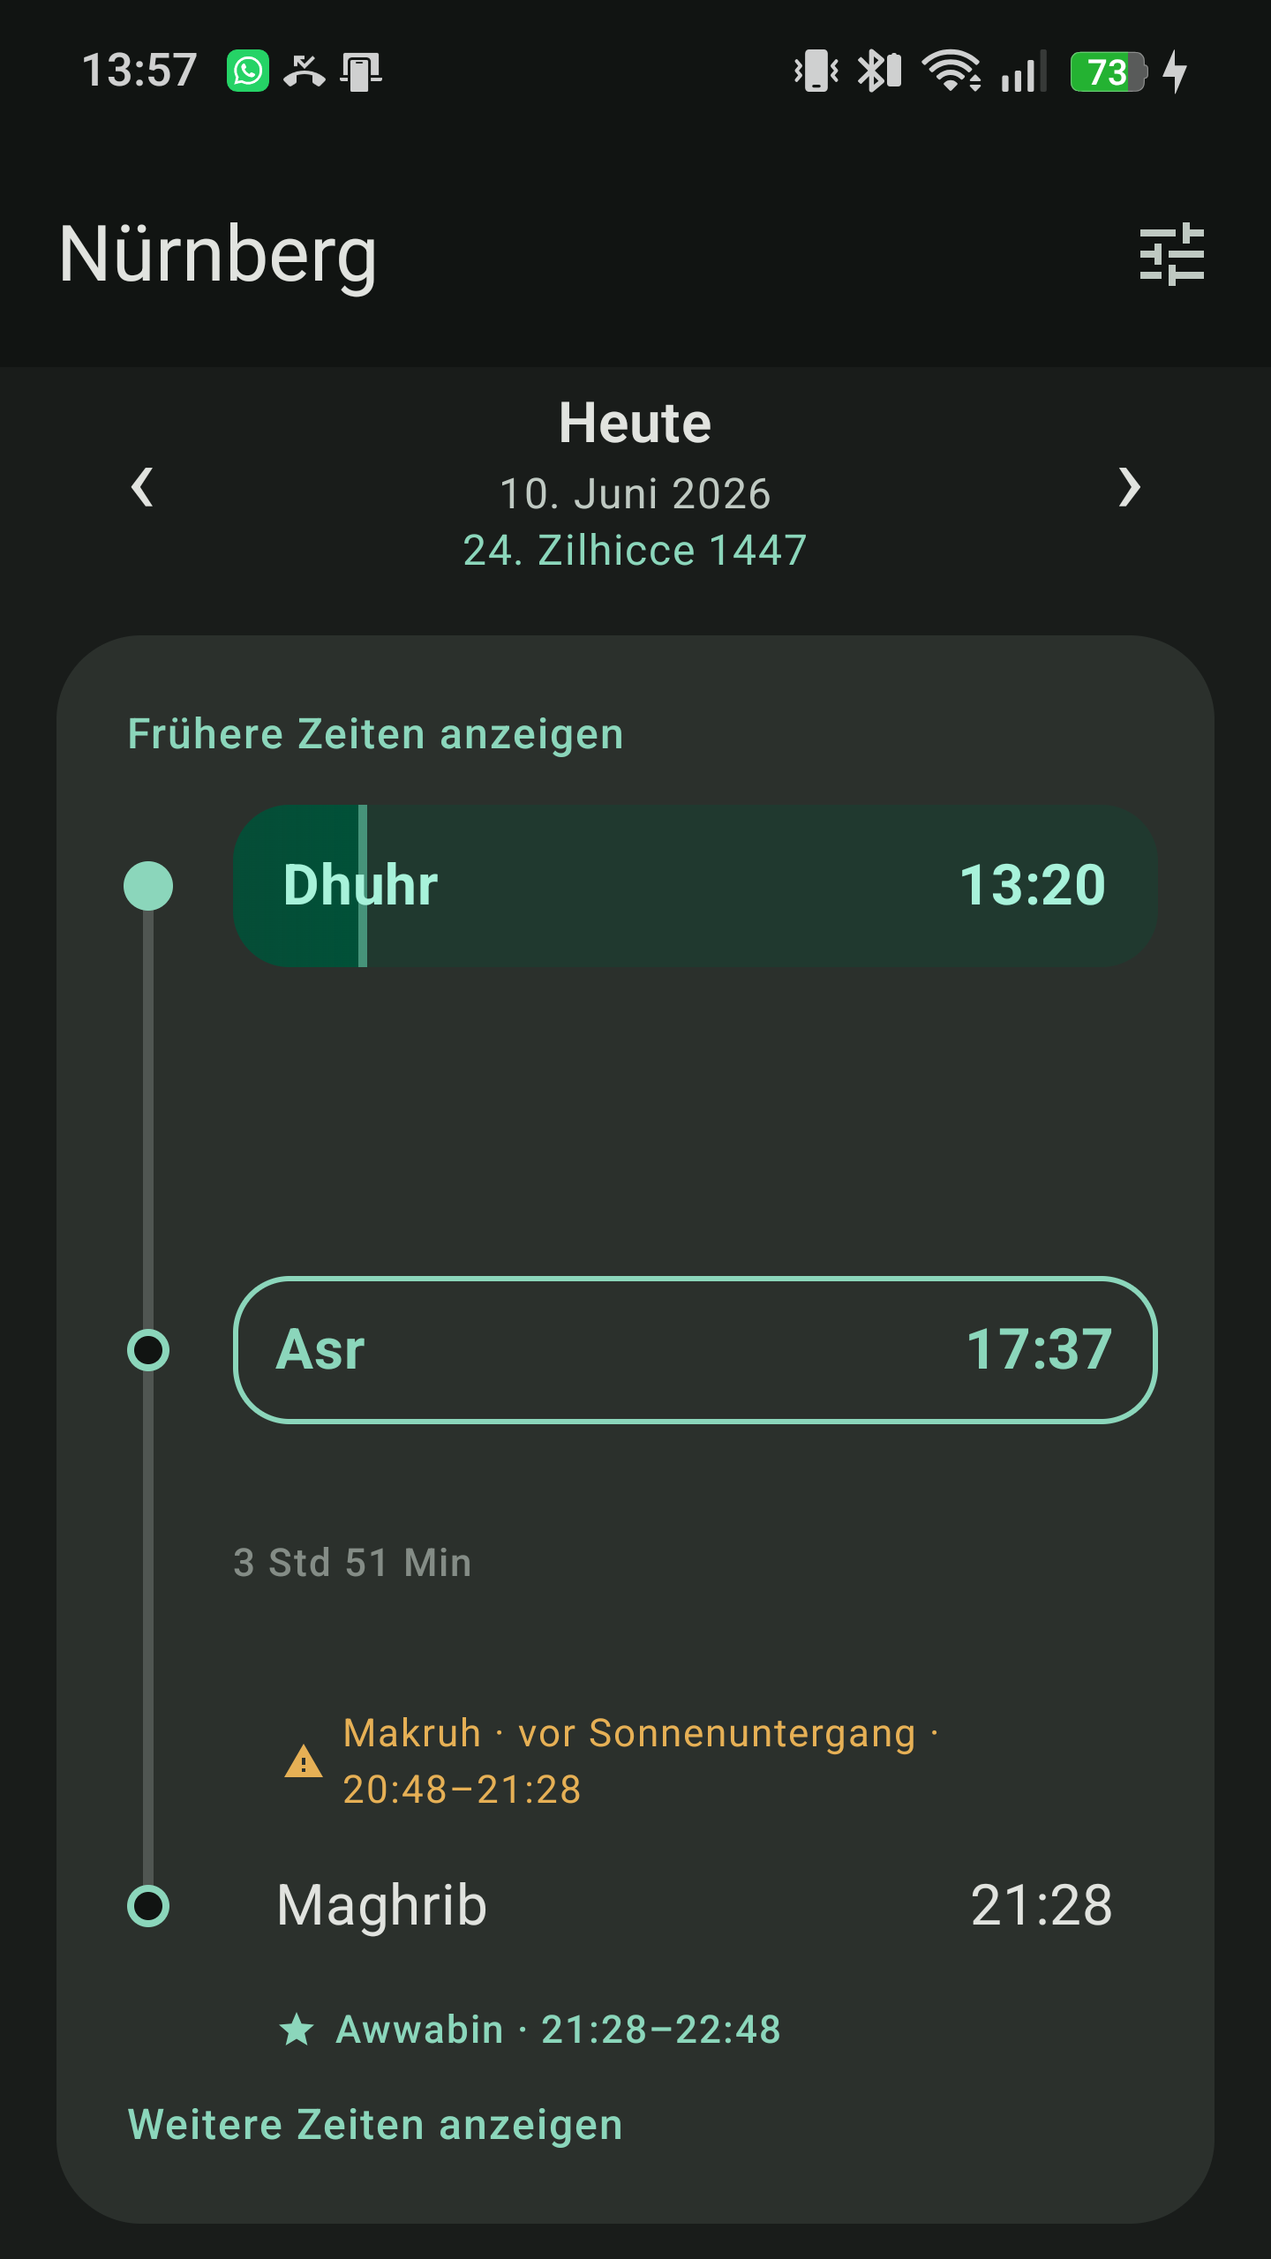
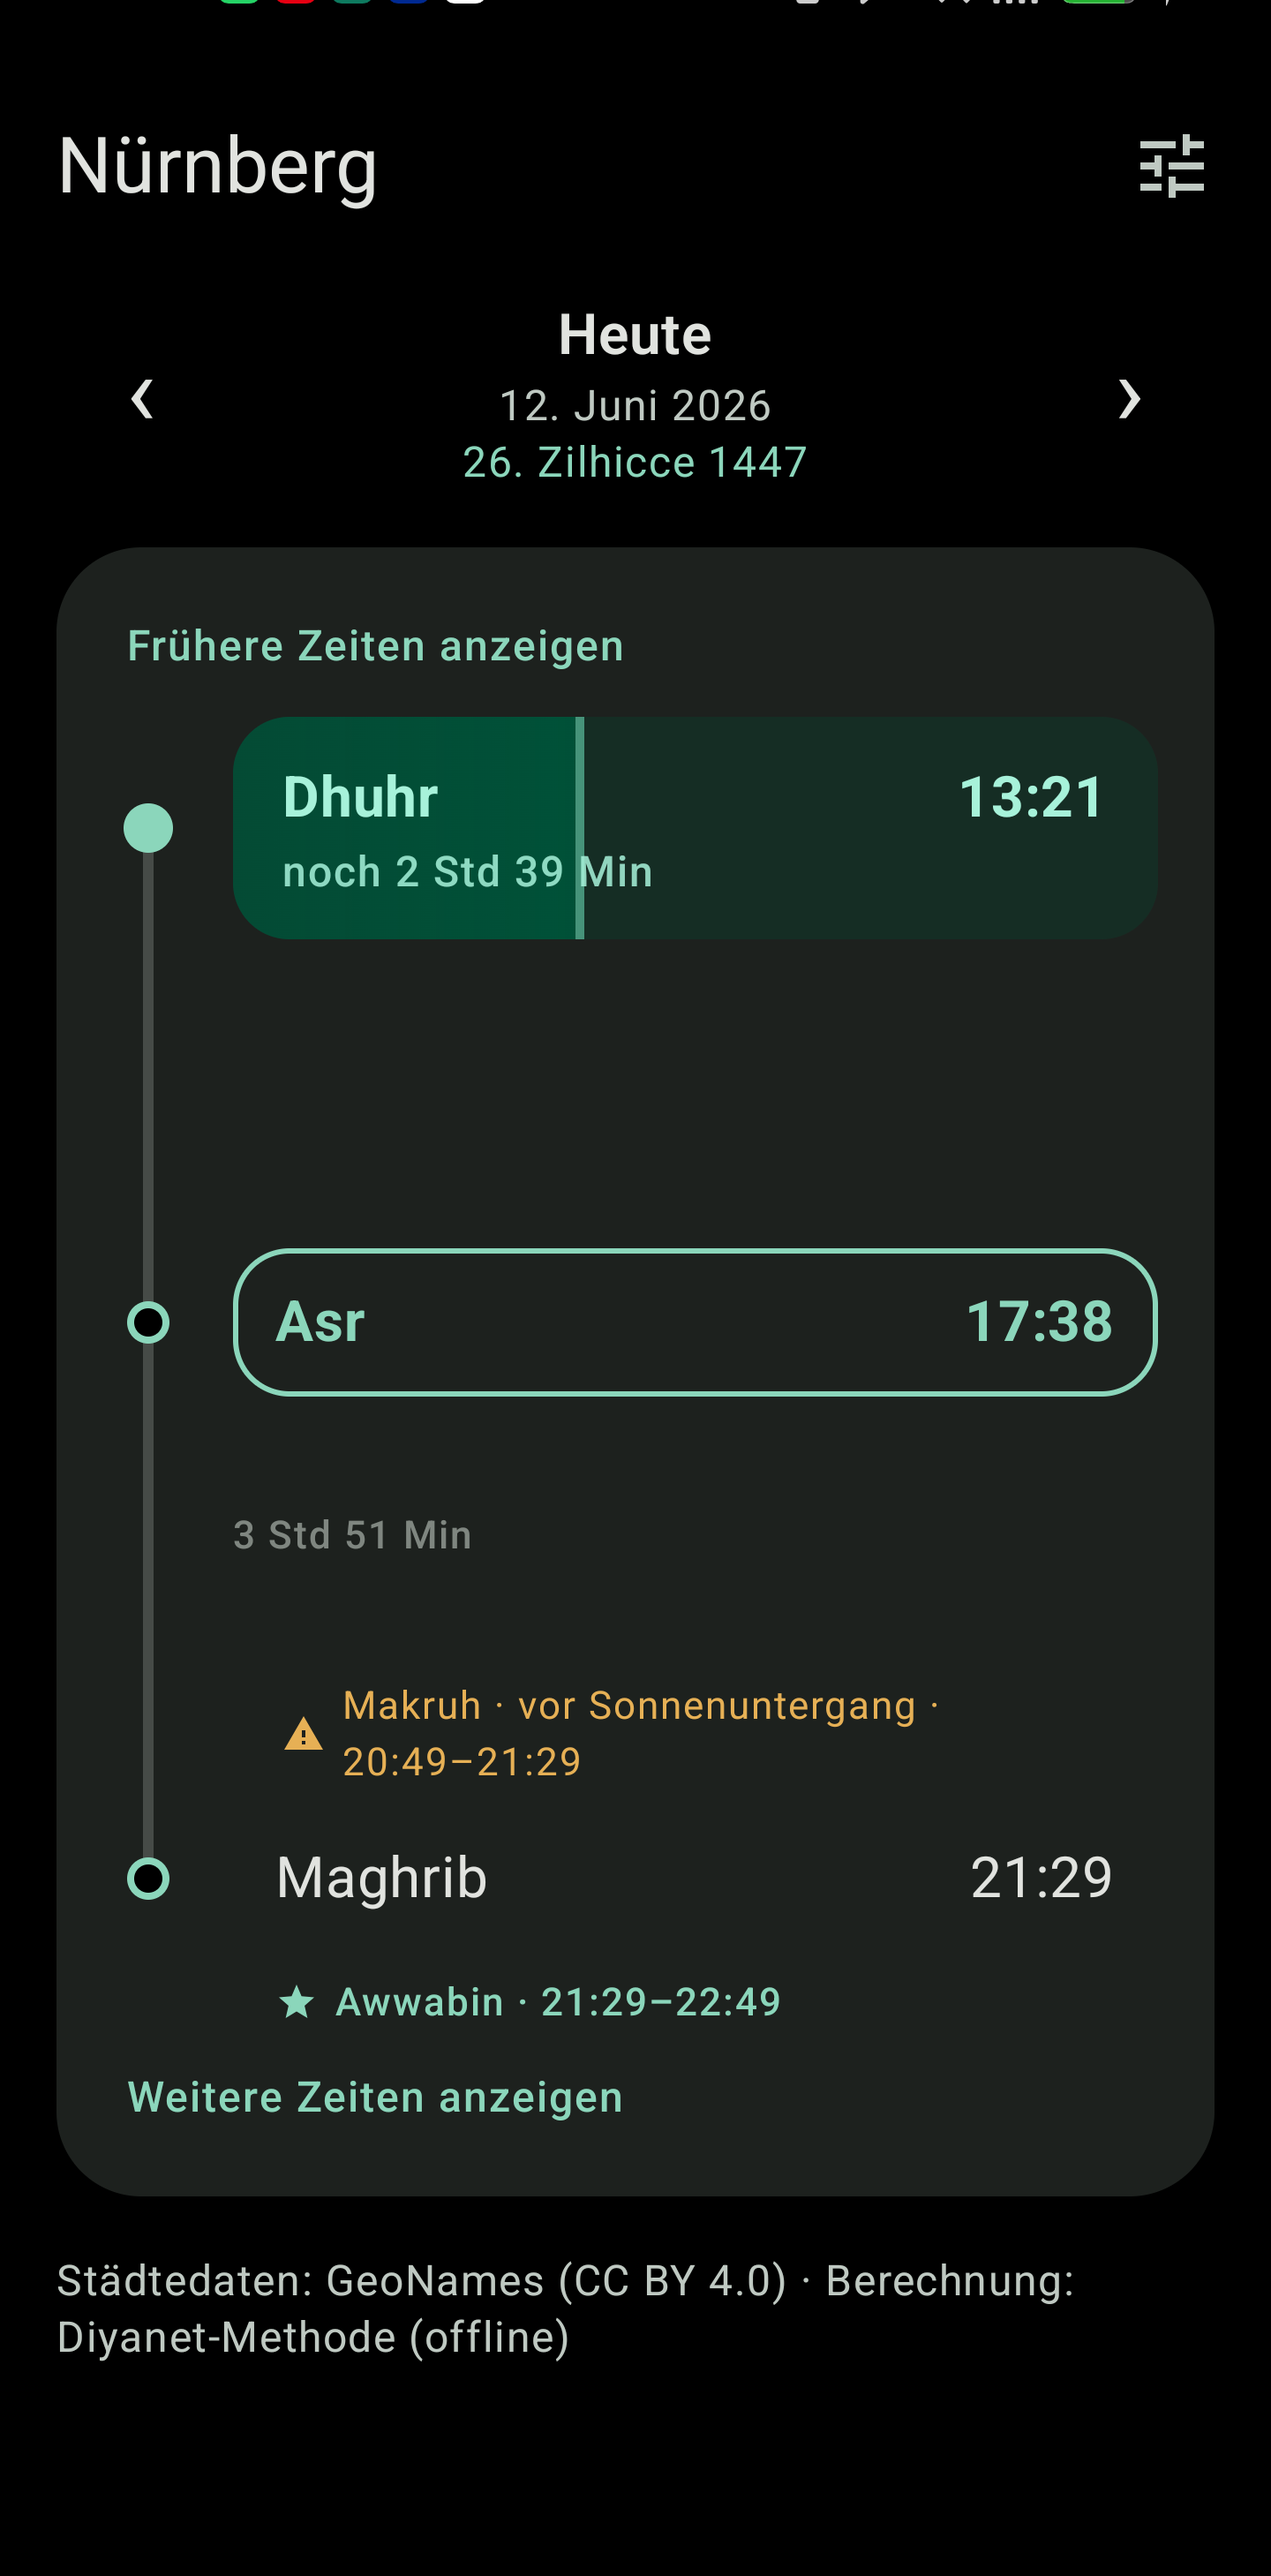
playstore: professional listing copy + fresh device screenshots

diff --git a/playstore/process_screenshots_better.py b/playstore/process_screenshots_better.py
@@ -1,0 +1,47 @@
+from PIL import Image
+import os
+
+out_dir = r"C:\Users\ehren.HHK\GebetszeitenApp\playstore\screenshots\phone"
+os.makedirs(out_dir, exist_ok=True)
+
+# Verwende die ursprünglichen Screenshots mit besserer Auswahl
+originals = [
+    (r"C:\Users\ehren.HHK\Downloads\screenshot.png", "01_zeitstrahl.png", "Oben — Hauptscreen"),
+    (r"C:\Users\ehren.HHK\Downloads\screenshot2.png", "02_makruh.png", "Mitte — Makruh-Zeiten"),
+    (r"C:\Users\ehren.HHK\Downloads\screenshot3.png", "03_einstellungen.png", "Einstellungen"),
+    (r"C:\Users\ehren.HHK\Downloads\screenshot4.png", "04_widget.png", "Widget-Info"),
+]
+
+for input_path, output_name, label in originals:
+    if not os.path.exists(input_path):
+        print(f"Fehler: {input_path} nicht gefunden")
+        continue
+
+    img = Image.open(input_path)
+    print(f"{label}: {img.size}")
+
+    # Crop: Remove status bar (top ~100px) and nav bar (bottom ~150px)
+    w, h = img.size
+    crop_box = (0, 100, w, h - 150)
+    cropped = img.crop(crop_box)
+
+    # Resize to Play Store standard (ensure 9:16 aspect)
+    # Target: 1440 x 2560 is good for Play Store
+    target_w = 1440
+    target_h = int(1440 * 16 / 9)
+
+    if cropped.width != target_w:
+        aspect = cropped.width / cropped.height
+        if aspect > 9/16:
+            # Too wide, crop sides
+            new_w = int(cropped.height * 9 / 16)
+            left = (cropped.width - new_w) // 2
+            cropped = cropped.crop((left, 0, left + new_w, cropped.height))
+
+        cropped = cropped.resize((target_w, target_h), Image.Resampling.LANCZOS)
+
+    out_path = os.path.join(out_dir, output_name)
+    cropped.save(out_path, quality=90)
+    print(f"  > {output_name} ({cropped.size})")
+
+print("\nAlle Phone-Screenshots neu verarbeitet!")

diff --git a/playstore/listing_de.md b/playstore/listing_de.md
@@ -8,43 +8,53 @@ Lightweight Gebetszeiten
 
 ## Kurzbeschreibung (max. 80 Zeichen)
 ```
-Weiß nichts über dich. Weckt dein Handy kaum. Trifft Diyanet auf die Minute.
+Gebetszeiten nach Diyanet-Methode, offline, datenschutzfreundlich, akkusparend.
 ```
-*(76 Zeichen)*
+*(78 Zeichen)*
 
 ## Vollständige Beschreibung (max. 4000 Zeichen)
 ```
-Eine Gebetszeiten-App muss drei Dinge können: schweigen, sparen und stimmen.
+PRÄZISE GEBETSZEITEN FÜR ANDROID & WEAR OS
 
-🤫 SCHWEIGEN
-Keine Internet-Berechtigung. Keine Standort-Berechtigung. Diese App KANN nichts über dich verraten – das ist kein Datenschutz-Versprechen, das ist Architektur. Während andere Gebets-Apps Standortdaten verkaufen, hat diese nicht einmal die technische Möglichkeit dazu. Kein Tracking, keine Werbung, kein Konto, kein Abo. Quelloffen unter GPLv3 – jede Zeile überprüfbar.
+Gebetszeiten app auf Basis der Diyanet-Methode (Türkei), vollständig offline und datenschutzfreundlich. Die App berechnet die Gebetszeiten lokal auf deinem Gerät — ohne Internet, ohne Standortverfolgung, ohne Tracking.
 
-🔋 SPAREN
-Kein Hintergrunddienst. Kein Polling. Keine Timer. Die App wacht nur eine Handvoll Mal am Tag auf – exakt zu den Gebetszeiten, für Millisekunden. Gemessener Hintergrundverbrauch: unter 1 mAh am Tag. Countdowns zeichnet das System oder sie stehen als ruhige Stufen da („noch 20+ Min"). Das dunkle Design ist echtes AMOLED-Schwarz: Pixel aus, Akku geschont.
+BERECHNUNG & GENAUIGKEIT
+Die Gebetszeiten werden nach der offiziellen Diyanet-Methode berechnet (Fajr 18°, Isha 17°) und sind gegen die deutschen Jahrestabellen kalibriert. Messgenauigkeit: ±2–3 Minuten über das ganze Jahr — einschließlich der Hochbreiten-Regel für Sommernächte in Deutschland, wo die Sonne nicht unter 18° sinkt.
 
-🎯 STIMMEN
-Berechnet offline nach der Diyanet-Methode (Türkiye) – kalibriert gegen die offizielle Jahrestabelle, auf ±2–3 Minuten übers ganze Jahr, inklusive der Hochbreiten-Regel für deutsche Sommernächte. Dazu die Hanafi-Makruh-Zeiten (İşrak, Zevâl, İsfirar) mit Erklärung, Duha-, Awwabin- und Tahajjud-Fenster und das Hijri-Datum mit Korrektur.
+Die App berechnet folgende Gebetszeiten:
+• Fajr (Morgengebet)
+• Dhuhr (Mittagsgebet)
+• Asr (Nachmittagsgebet)
+• Maghrib (Sonnenuntergang)
+• Isha (Nachtgebet)
+• Sonnenaufgang
 
-━━━━━━━━━━━━━━
+Zusätzlich werden die Hanafi-Makruh-Zeiten (İşrak, Zevâl, İsfirar) sowie Duha-, Awwabin- und Tahajjud-Fenster angezeigt.
 
-📱 AUF DEM HANDY
-• Zeitstrahl, der mitdenkt: das aktuelle Gebet füllt sich als Fortschritts-Pille
-• Erinnerungen pro Gebet – still, Vibration oder Ton, mit Vorlauf (5–30 Min)
-• Sperrbildschirm-Zeile: „Noch 20+ Min bis Isha" – immer da, nie aufdringlich
-• Widget in zwei Größen: nächstes Gebet kompakt oder der ganze Tag als Plan
-• Je näher das Gebet, desto präziser die Anzeige – minutengenau im Endspurt
+AUF DEM SMARTPHONE
+Die App zeigt einen Zeitstrahl mit allen Gebetszeiten des Tages. Das aktuelle Gebet wird als Fortschrittspille visualisiert. Der Sperrbildschirm zeigt jederzeit die Restzeit bis zum nächsten Gebet. Optional kannst du die Anzeige minutengenau einstellen oder abgerundete Schritte wählen.
 
-⌚ AM HANDGELENK
-Vollwertige Wear-OS-App, die kein Handy braucht: nächstes Gebet auf einen Blick, scrollbare Tagesübersicht, Ortswahl direkt an der Uhr, sanfte Vibration zur Gebetszeit. Tile und Zifferblatt-Complication aktualisieren sich selbst – ganz ohne die Uhr zu wecken.
+Erinnerungen sind individualisierbar: Still (nur Benachrichtigung), Vibration oder Ton — jeweils mit einstellbarem Vorlauf (5–30 Minuten). Widgets in zwei Größen: kompakt (nächste Gebetszeit) oder Tagesplan.
 
-🌍 DEIN ORT, DEINE WAHL
-Über 33.000 Städte weltweit, eingebaut und offline durchsuchbar – oder eigene Koordinaten. Die App fragt nie, wo du bist. Du sagst es ihr.
+AUF DER SMARTWATCH (WEAR OS)
+Vollwertige Wear-OS-App, die unabhängig vom Smartphone funktioniert. Das nächste Gebet ist auf einen Blick sichtbar, mit scrollbarer Tagesübersicht aller Gebetszeiten. Ortswahl direkt an der Uhr möglich. Zur Gebetszeit vibrationiert die Watch sanft — ohne dass die Uhr das Telefon benötigt.
 
-🌙 EHRLICHE SOFTWARE
-Kostenlos. Werbefrei. Quelloffen: github.com/killingmelo/gebetszeiten
-Städtedaten: GeoNames (CC BY 4.0) · Berechnung: adhan (MIT) mit eigener Diyanet-Kalibrierung
+Complication und Tile aktualisieren sich selbst, ohne zusätzliche Wakeups zu verursachen.
 
-Namaz vakitleri · Ezan vakti · Salah · Salat · Imsak · Iftar · Gebetszeiten Deutschland
+OFFLINE & DATENSCHUTZ
+Die App hat keine Internet-Berechtigung und kann technisch keine Daten übertragen. Der Gebetsort wird manuell aus einer eingebauten Liste von über 33.000 Städten gewählt oder durch manuelle Koordinaten eingegeben — die App fragt nie nach deinem Standort. Alle Berechnungen erfolgen lokal auf dem Gerät.
+
+Es gibt kein Tracking, keine Werbung, keine Konten, keine Abos.
+
+AKKU-EFFIZIENZ
+Die App arbeitet ereignisgesteuert, nicht periodisch. Sie wacht täglich nur zu den Gebetszeiten auf — etwa 5–6 Mal pro Tag für wenige Millisekunden. Gemessener Hintergrundverbrauch: unter 1 mAh pro Tag.
+
+Das Design nutzt echtes AMOLED-Schwarz (#000000), sodass Pixel auf deinem Bildschirm ausgeschaltet sind, wenn die App nicht im Vordergrund läuft.
+
+OFFENER QUELLCODE
+Die App ist unter der GPLv3-Lizenz quelloffen. Jede Zeile des Codes ist überprüfbar und kann von der Community auditiert werden.
+
+github.com/killingmelo/gebetszeiten
 ```
 
 ## Kategorie & Tags
